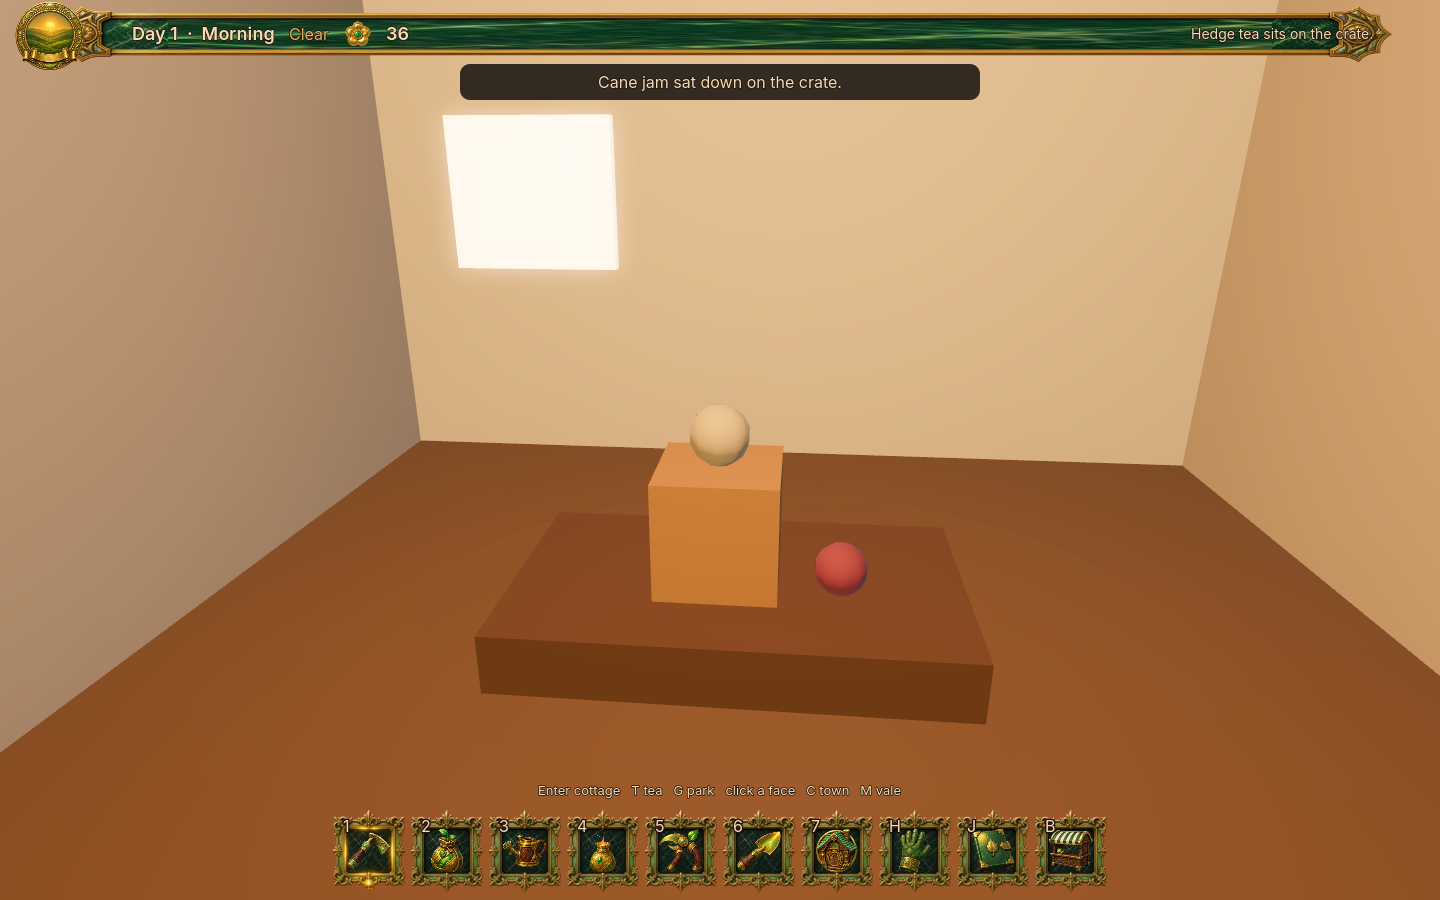
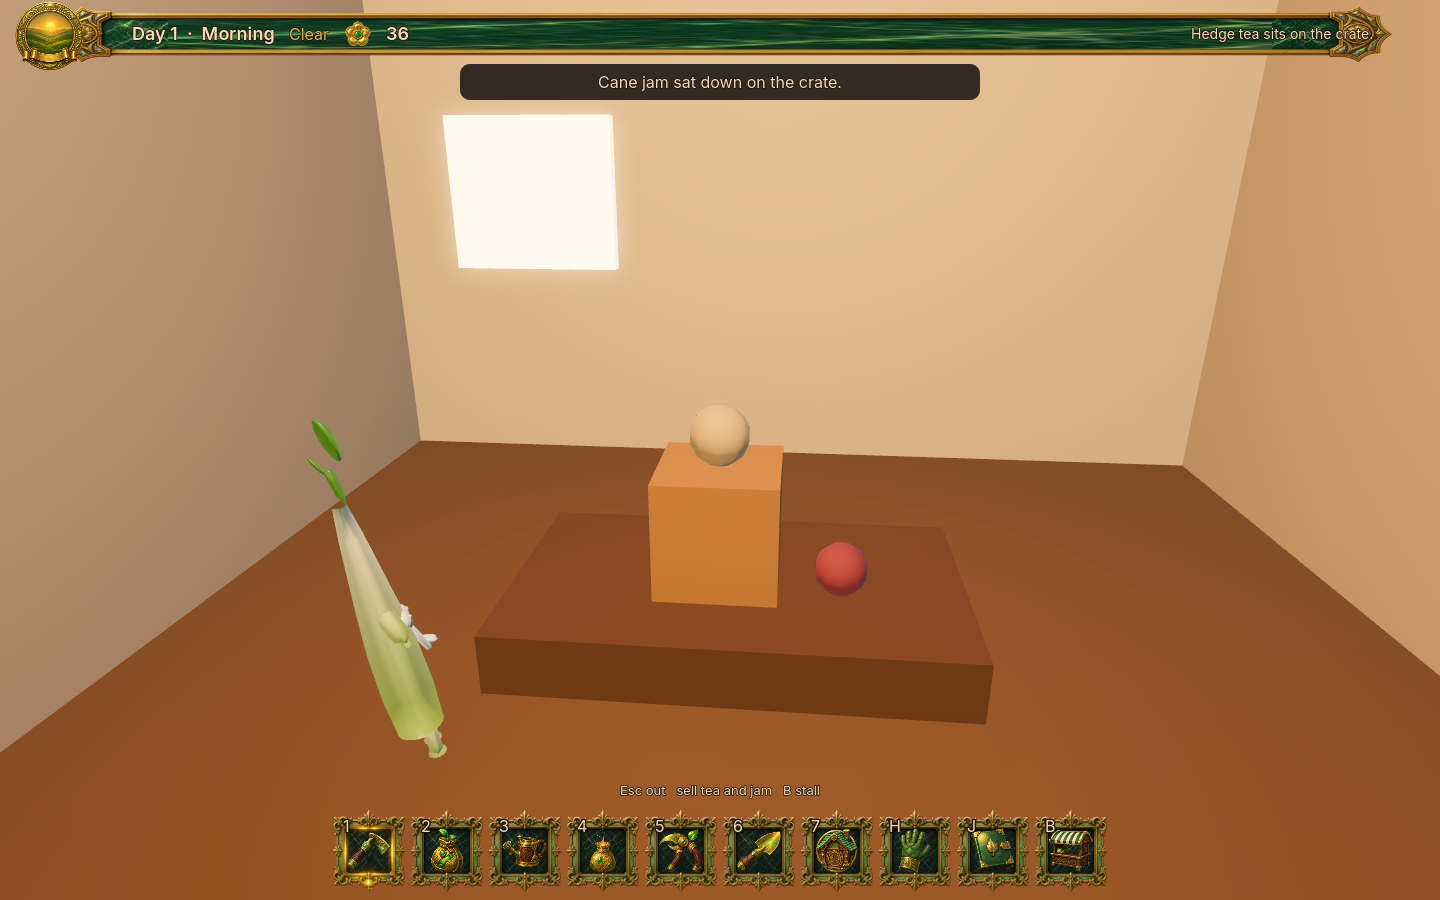
Stand Lumen at the open stall counter.
Enter already opens the room and the sales already pay. Lumen waits by the goods and Esc puts them back outside.

Changed region(s): [[0.2188, 0.4667, 0.3125, 0.84], [0.375, 0.8711, 0.625, 0.9022]]

diff --git a/docs/CURRENT_STATE.md b/docs/CURRENT_STATE.md
@@ -26,7 +26,7 @@ A neon status mark floats above the body. A hungry jelly walking to food shows t
 Grove Park, once Nessa files it, is a lawn with benches and one worn walk from the lawn to the hedge gate. Lumen and Bram walk through that gate to the grass and stay there. `grove_park.active` stays false.
 Enter, while the camera is near the Hedge Tea House, steps into that room with the same camera path as the cottage. The one porch kettle and its steam sit on the counter while the room is open, then return to the porch on Esc. Stocking and carrying still go through the mill. Coins still move only on a sale. A carry while the room is open fills the South Lane kitchen cup. `data/venues.json` keeps `tea_house.active` false.
 Enter, while the camera is near the potting shed, steps into that room on the same camera path. The shed stands in the west hedge corridor, so the room is north of that hedge. The one jam pan, the jam, and its steam sit on the bench while the room is open, then return in front of the shed on Esc. Stocking and carrying still go through the mill. Coins still move only on a sale. The potting shed is not a catalog venue. `tea_house.active` and `grove_park.active` stay false.
-Enter, while the camera is nearer the Petal Stall than the shed or the tea house, steps into that room on the same camera path. The stall stands north of the bed hedge, so the room is further north of that hedge. The existing crate, the tea cup, and the jam jar slide onto the counter while the room is open, then return to the stall on Esc. Selling uses the same `sell_tea` and `sell_jam` calls. Coins rise, the crate drops, and dusk still refuses. `tea_house.active` and `grove_park.active` stay false. The other cottages stay closed.
+Enter, while the camera is nearer the Petal Stall than the shed or the tea house, steps into that room on the same camera path. The stall stands north of the bed hedge, so the room is further north of that hedge. The existing crate, the tea cup, and the jam jar slide onto the counter while the room is open, then return to the stall on Esc. Lumen, who already keeps the stall, stands at that counter until Esc puts them back outside. Selling uses the same `sell_tea` and `sell_jam` calls. Coins rise, the crate drops, and dusk still refuses. `tea_house.active` and `grove_park.active` stay false. The other cottages stay closed.
 When the road rumour is filed, six cottages stand on South Lane between the gate and the lawn. Occupied houses light a window. If the camera is near the gate, the first household (a tomato folk, surname from the lane record) stands at that door. Enter, while the camera is near that cottage, steps into the kitchen. A cup on the table holds hedge tea when the kettle has a pot or a crate of it. T drinks one serving and the cup empties when that was the last. Selling carried tea at the Petal Stall uses that same cup: a sale that leaves a crate keeps it full, and selling the last crate empties it even when the kitchen was already open. Coins still rise. The same open cup follows the mill. Carrying a finished pot onto the crate fills it. A resident drinking the last crate, through the mill tick, empties it. A new pot, or Nessa carrying that pot, fills it again. There is still one seller. G, once Grove Park is filed, walks that household from the cottage door, through the gate, onto the lawn. G again walks them home through the gate. The lawn spot survives save and load. While they stand on the grass, the Grove Park count includes them and their cottage window goes dark. The window lights again when they are at the door. Arriving on the lawn draws an existing Bellhelp to the grass, hungry, with both black eyes still showing. The same name is used in the kitchen, on the path, and on the place page. Esc steps back out. The place page says where they are: kitchen, walking, lawn, or cottage door. After a sip it also keeps “drank the hedge tea,” including across save and load. The bottom hint reads Enter cottage, T tea, G park. Clicking the household says the tea line. Farther houses stay counts. `grove_park.active` stays false.
 
 ## ACTIVE AGENTS
@@ -59,7 +59,7 @@ Executive on this branch. No other agent is writing this tree in this run.
 - `PETAL_KETTLE_SHOT=1` → `PETAL_KETTLE_SHOT_OK`. The brew plate quits if the kettle leaves the frame.
 - `PETAL_TEA_HOUSE_SHOT=1` → `PETAL_TEA_HOUSE_SHOT_OK`. The shot quits if Enter does not open the tea house, if the kettle leaves the frame, if carrying leaves the South Lane cup empty or moves coins, if Esc leaves the room open, or if the kettle does not sit back on the porch. `tea_house.active` and `grove_park.active` stay false.
 - `PETAL_SHED_SHOT=1` → `PETAL_SHED_SHOT_OK`. The shot quits if Enter does not open the potting shed, if the pan or its steam leaves the frame, if carrying moves coins, or if Esc leaves the room open. The pan sits back in front of the shed. `tea_house.active` and `grove_park.active` stay false.
-- `PETAL_STALL_SHOT=1` → `PETAL_STALL_SHOT_OK`. The shot quits if Enter does not open the stall, if the crate, cup, or jar leaves the frame, if `sell_tea` or `sell_jam` does not pay, if dusk still sells, or if Esc leaves the room open or the goods off the stall. `tea_house.active` and `grove_park.active` stay false.
+- `PETAL_STALL_SHOT=1` → `PETAL_STALL_SHOT_OK`. The shot quits if Enter does not open the stall, if the crate, cup, or jar leaves the frame, if Lumen is not at the counter, if `sell_tea` or `sell_jam` does not pay, if dusk still sells, or if Esc leaves the room open, the goods off the stall, or Lumen inside. `tea_house.active` and `grove_park.active` stay false.
 - `PETAL_JELLY_PLAY=1` → `JELLY_PLAY_OK` and `JELLY_ICON_OK`. Hungry, held, and landed plates still show two separate black eyes. A hungry jelly whose food is not under it shows the cog above the gel. The last plate forces that cog and quits if the mark is not above both eyes in the frame.
 - `PETAL_RESIDENT_SHOT=1` → `PETAL_RESIDENT_SHOT_OK`. Bram, Lumen, and Bellhelp still read on the lawn.
 - Dummy ALSA `ERR_CANT_OPEN` and a GLES texture leak on quit. Expected on this VM.
@@ -80,7 +80,7 @@ Executive on this branch. No other agent is writing this tree in this run.
 
 `docs/screenshots/potting_shed_inside.png` (1440×900). The potting-shed room, a lit window, and the copper pan of red jam with white steam on the bench. The line reads “Bramble went into the pan.” The tin stays 36.
 
-`docs/screenshots/petal_stall_inside.png` (1440×900). The stall room, a lit window, and the crate on the counter with a cup and a red jar. The line reads “Cane jam sat down on the crate.” The tin stays 36.
+`docs/screenshots/petal_stall_inside.png` (1440×900). The stall room, a lit window, and the crate on the counter with a cup and a red jar. Lumen stands left of the counter, facing the goods. The line reads “Cane jam sat down on the crate.” The hint reads “Esc out   sell tea and jam   B stall.” The tin stays 36.
 
 `docs/screenshots/kettle_brew.png` (1440×900). The dark kettle and its white steam sit on the tea-house porch. The line reads “The kettle is brewing hedge tea.”
 

diff --git a/docs/CAMPAIGN_BOARD.md b/docs/CAMPAIGN_BOARD.md
@@ -11,7 +11,7 @@ Playable Hedge Hollow on `petal/09-art-rescue`, continued on `cursor/playable-je
 - Stall, jam, tea, journal. A carried jam crate sells at the Petal Stall for petal coins, the jam crate drops, dusk shuts that sale with the stall, and the save keeps the coins and the crate. Vale map on M. Town page on C. Selling the last carried tea empties the open South Lane kitchen cup. A crate left on the stall keeps that cup full. Carrying a pot, a resident finishing the crate, or a new pot refreshes that same open cup. Coins stay put unless it was a sale.
 - Enter near the Hedge Tea House opens that room on the cottage camera path. The porch kettle and its steam are on the counter. Carrying while the room is open fills the South Lane cup and does not move coins. Esc closes the room and puts the kettle back on the porch. `tea_house.active` stays false.
 - Enter near the potting shed opens that room on the same path. The jam pan and its steam sit on the bench. Cooking and carrying stay the mill calls and do not move coins. Esc closes the room and puts the pan back in front of the shed. `grove_park.active` stays false.
-- Enter nearer the Petal Stall than the shed or the tea house opens that room on the same path. The existing crate, cup, and jar sit on the counter. `sell_tea` and `sell_jam` are still the paying calls: coins rise, the crate drops, dusk refuses. Esc closes the room and puts the goods back on the stall. `tea_house.active` stays false.
+- Enter nearer the Petal Stall than the shed or the tea house opens that room on the same path. The existing crate, cup, and jar sit on the counter. Lumen stands at that counter and goes back outside on Esc. `sell_tea` and `sell_jam` are still the paying calls: coins rise, the crate drops, dusk refuses. `tea_house.active` stays false.
 - Grove Park opens after the road rumour and Nessa's filing. Lumen and Bram walk through the hedge gate and stay on the grass. South Lane puts six cottages on that path when the rumour is filed. A near camera stands one tomato household at the first door. Enter steps into that kitchen. T drinks one kettle tea. G walks that household through the gate to the lawn, the lawn count includes them, their cottage window goes dark while they are out, and arriving there draws a hungry Bellhelp onto that grass with both eyes showing. G again walks them home. The place page names where they are, keeps the tea sip after reload, and Reed’s near-row matches. Esc steps back out. The hint shows Enter, T, and G. Clicking the household says the tea line. Catalog stays `active: false`.
 
 ## NEXT
@@ -22,7 +22,7 @@ Playable Hedge Hollow on `petal/09-art-rescue`, continued on `cursor/playable-je
 - `PETAL_TOWN_SHOT_OK` shows the door household, then the sealed kitchen with the window, Moss, and the tea cup, then the lawn again.
 - `PETAL_TEA_HOUSE_SHOT_OK` opens the tea house, keeps the kettle in frame, carries without paying, and Esc closes the room (`tea_house_inside.png`).
 - `PETAL_SHED_SHOT_OK` opens the potting shed, keeps the pan and its steam in frame, carries without paying, and Esc closes the room (`potting_shed_inside.png`).
-- `PETAL_STALL_SHOT_OK` opens the stall, keeps the crate, cup, and jar in frame, pays for tea and jam, refuses both after dusk, and Esc closes the room (`petal_stall_inside.png`).
+- `PETAL_STALL_SHOT_OK` opens the stall, keeps the crate, cup, jar, and Lumen in frame, pays for tea and jam, refuses both after dusk, and Esc closes the room and returns Lumen (`petal_stall_inside.png`).
 - `kettle_brew.png` keeps the brewing kettle and its steam in frame. `jam_pan.png` still shows the copper pan in front of the shed wall. The research hut stays a shell. Tea-porch individuals still read “still no body” in the room that already opens. The other cottages stay closed.
 - Point `main` at this garden when the suite stays green. Do not replay the east-chain.
 
